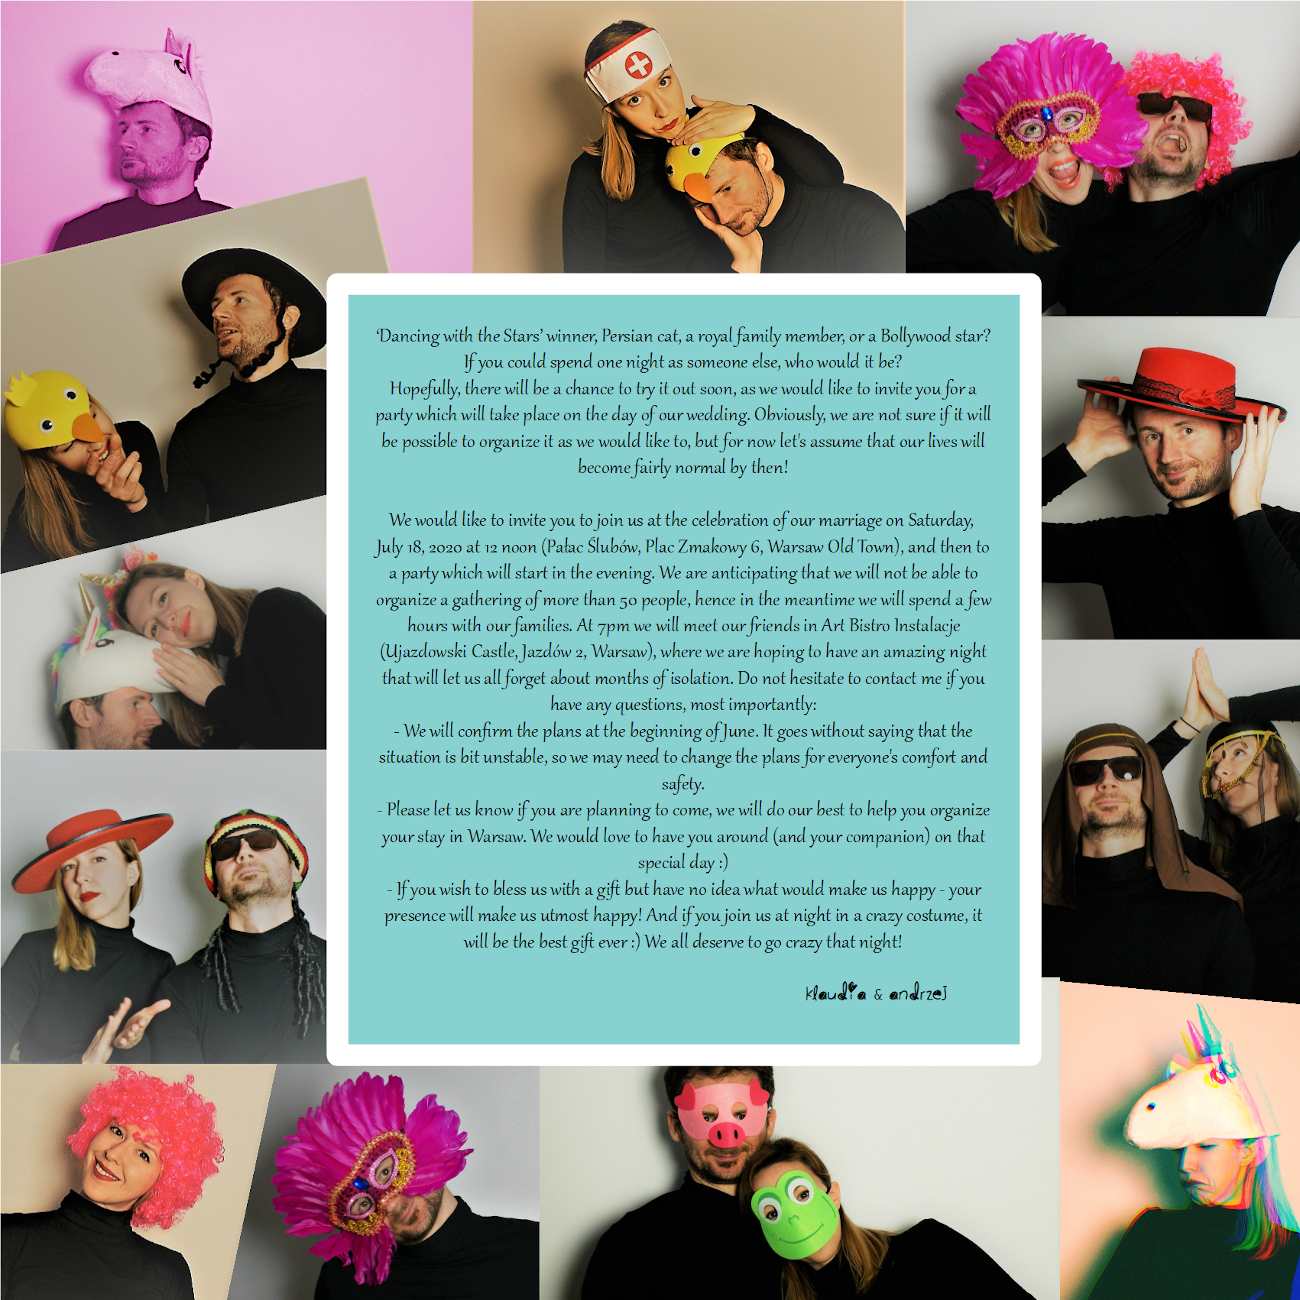
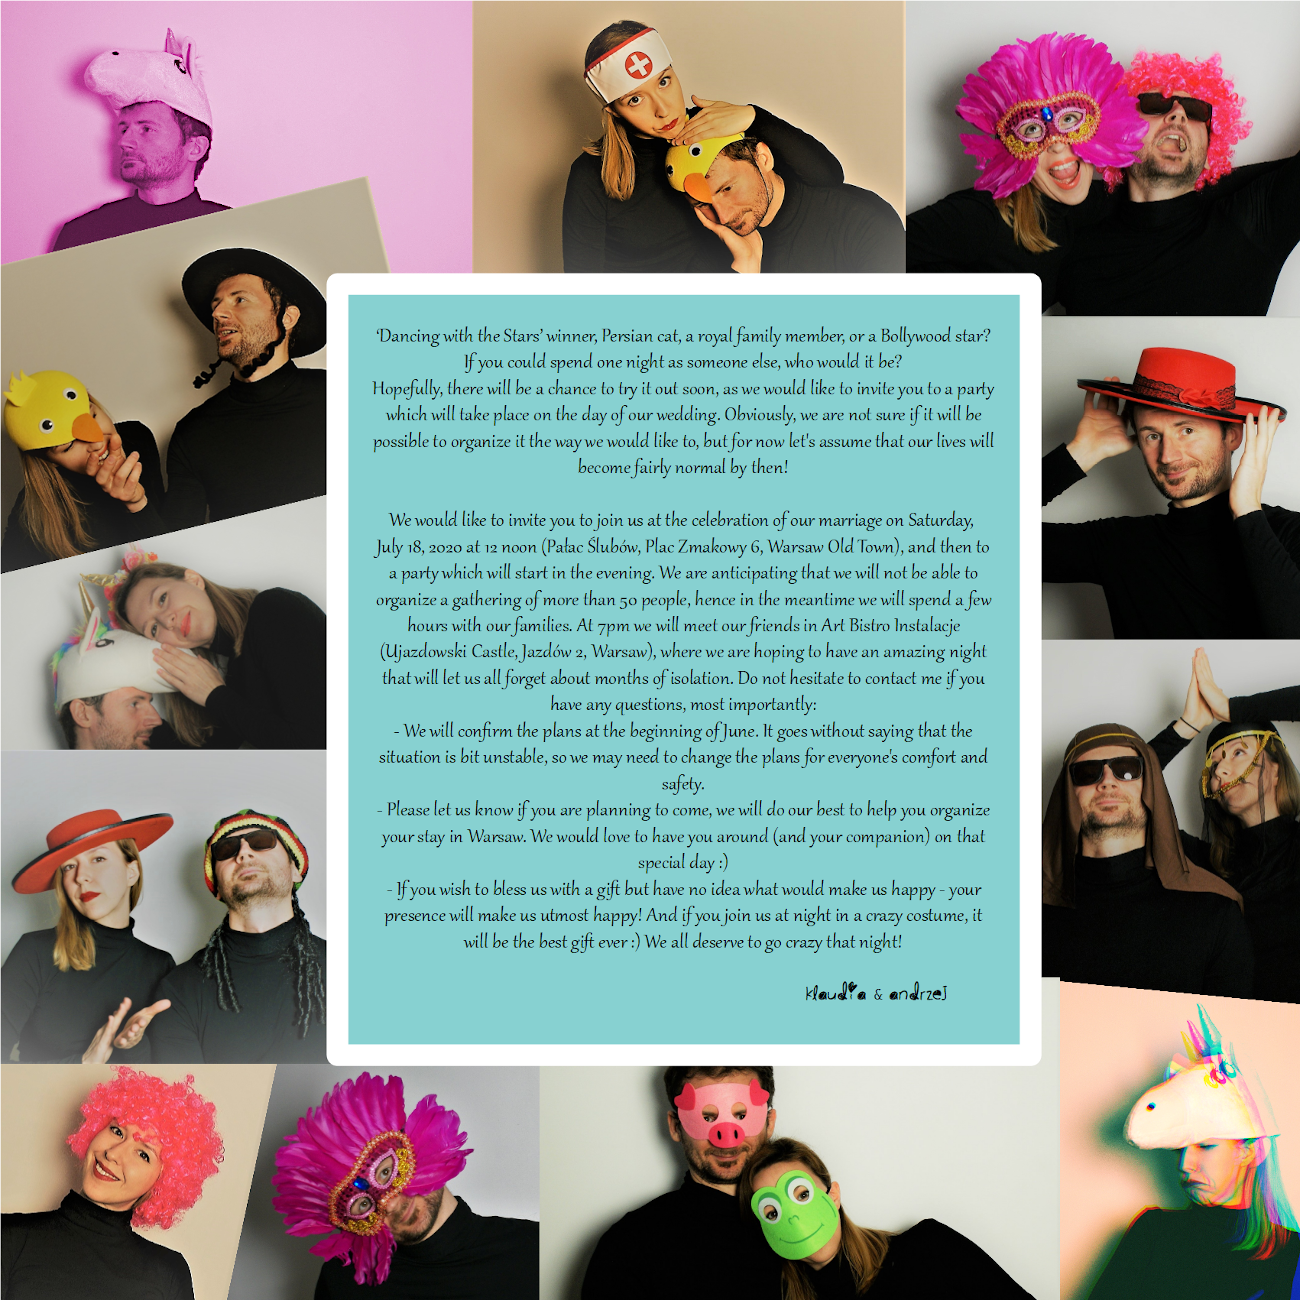
small eng changes

Changed region(s): [[0.2769, 0.2769, 0.7692, 0.3692]]

diff --git a/party.html b/party.html
@@ -6,11 +6,12 @@
 <body>
 
 <img style='height: 100%; width: 100%; object-fit: contain' src="party.png" alt="Dancing with the Stars winner, Persian cat, a royal family member, or a Bollywood star? If you could spend one night as someone else who would it be?
-Hopefully, there will be a chance to try it out soon, as we would like to invite you for a party which will take place on the day of our wedding. Obviously, we are not sure if it will be possible to organize it as we would like to, but for now let's assume that our lives will become fairly normal by then!
+Hopefully, there will be a chance to try it out soon, as we would like to invite you to a party which will take place on the day of our wedding. Obviously, we are not sure if it will be possible to organize it the way we would like to, but for now let's assume that our lives will become fairly normal by then!
+
 We would like to invite you to join us at the celebration of our marriage on Saturday, July 18, 2020 at 12 noon (Pałac Ślubów, Plac Zmakowy 6, Warsaw Old Town), and then to a party which will start in the evening. We are anticipating that we will not be able to organize a gathering of more than 50 people, hence in the meantime we will spend a few hours with our families. At 7pm we will meet our friends in Art Bistro Instalacje (Ujazdowski Castle, Jazdów 2), where we are hoping to have an amazing night that will let us all forget about months of isolation. Do not hesitate to contact me if you have any questions, most importantly:
 - We will confirm the plans at the beginning of June. It goes without saying that the situation is bit unstable, so we may need to change the plans for everyone's comfort and safety.
 - Please let us know if you are planning to come, we will do our best to help you organize your stay in Warsaw. We would love to have you around (and your companion) on that special day :)
-- If you wish to bless us with a gift but have no idea what would make us happy - your presence will make us utmost happy! And if you join us at night in a crazy costume, it will be the best gift ever :) We all deserve to go crazy that night! ">
+- If you wish to bless us with a gift but have no idea what would make us happy - your presence will make us utmost happy! And if you join us at night in a crazy costume, it will be the best gift ever :) We all deserve to go crazy that night!">
 
 </body>
 </html> 
